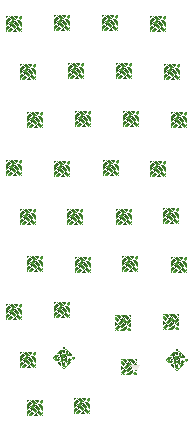
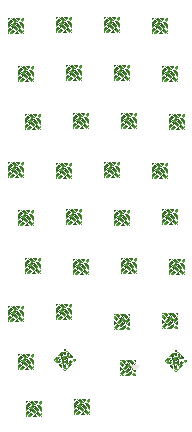
Held-item tuning: 20% smaller art, under-player layer, closer grip, synced breathing
- Art block 16px -> 13px (~20% smaller per feedback).
- Item layer now renders UNDER the body (depth -0.1): the hand overlaps
  the item, reading as gripped instead of pasted on top.
- Art mass pulled ~2px toward the measured grip tips.
- Per-frame breathing synced to the body base sheet's measured phases
  (walk_right previously phase-flipped vs the body bob).
- Rebuilt all 14 generated sheets with the new table.

diff --git a/scripts/make_held_sheet.py b/scripts/make_held_sheet.py
@@ -44,7 +44,7 @@ FRAME = 48
 COLS = 4
 
 
-def load_icon(path: Path, size: int = 16) -> Image.Image:
+def load_icon(path: Path, size: int = 13) -> Image.Image:
     """Load the icon, snap to a size x size RGBA art block (pixel-art look)."""
     im = Image.open(path).convert("RGBA")
     im = im.resize((size, size), Image.LANCZOS)
@@ -155,7 +155,7 @@ def main(argv: list[str] | None = None) -> int:
     ap = argparse.ArgumentParser(description=__doc__)
     ap.add_argument("--icon", required=True, type=Path)
     ap.add_argument("--stem", required=True, help="sheet stem, e.g. apple")
-    ap.add_argument("--size", type=int, default=16, help="art block size (px)")
+    ap.add_argument("--size", type=int, default=13, help="art block size (px)")
     ap.add_argument("--out", type=Path, default=ROOT / "assets" / "players" / "weapon")
     ap.add_argument("--base", type=Path, default=ROOT / "assets" / "players" / "base.png")
     ap.add_argument("--contact", type=Path, default=None)
